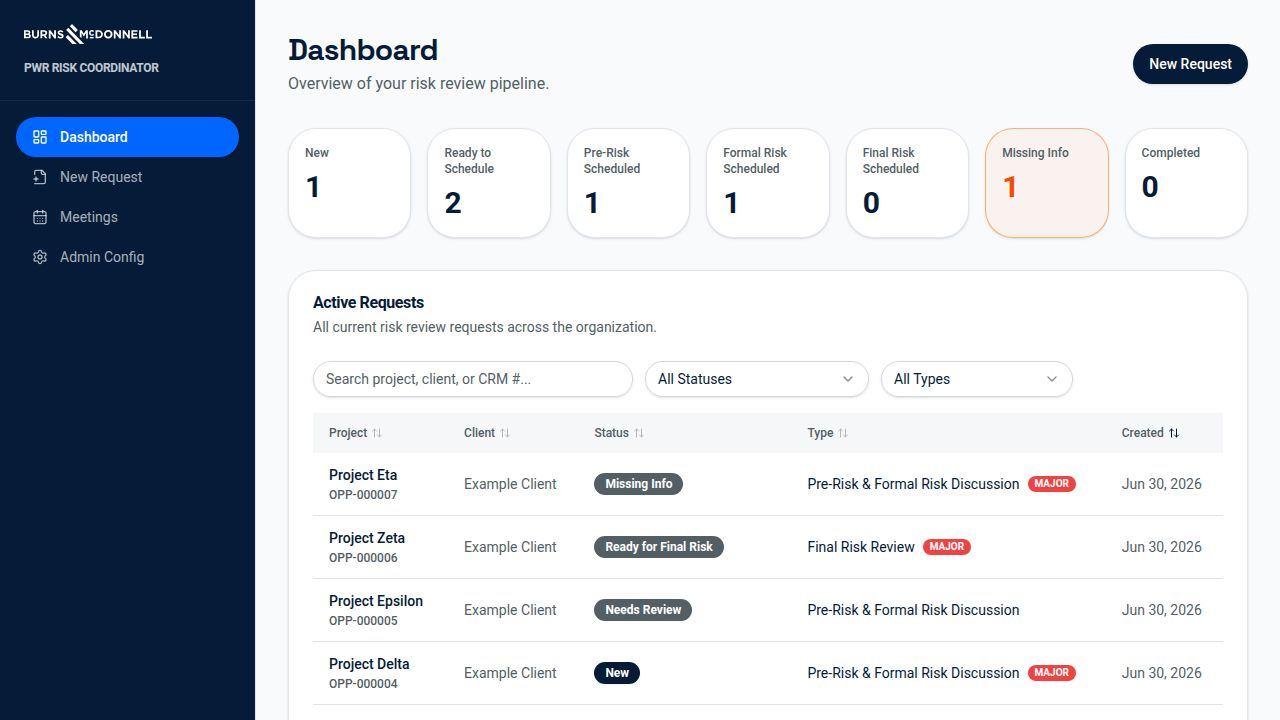
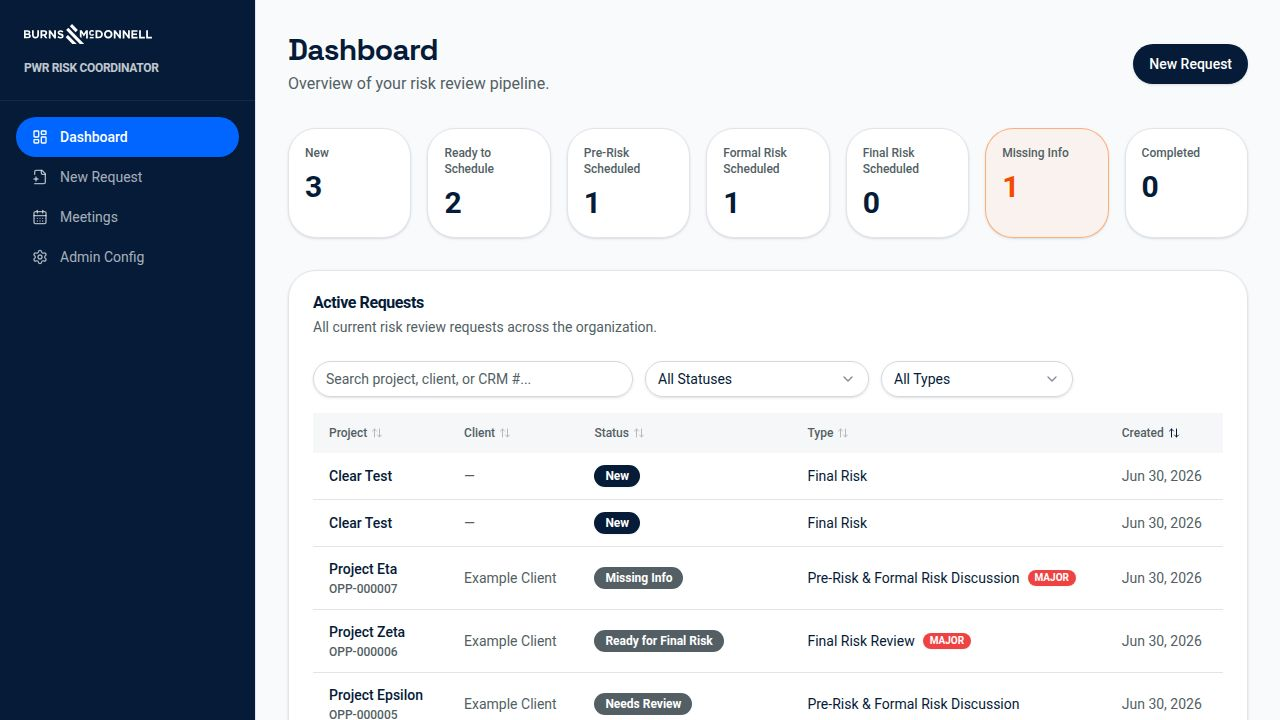
Make core attendee roles required on every request
Per the original MS Form, certain attendee roles must always exist and be
populated (a name), not just be optional additions. Enforced end to end.

Required roles: Business-Line Director, Project Manager, Engineering Manager,
Biz Develop/Capture Manager, Executive-in-Charge, Attorney.

Backend / API spec:
- Added REQUIRED_ATTENDEE_ROLES constant; exposed via /config as
  requiredAttendeeRoles (openapi.yaml updated + client/zod regenerated).
- computeWarnings now flags all required roles missing a name (getRequiredRoles
  returns the full list regardless of EPC-prime status).

Frontend (RequestForm):
- On config load, pre-seeds the required roles as attendee rows (ordered first,
  reusing any existing attendees for those roles) via useFieldArray replace.
- Required rows: role select disabled, row not removable, name labeled required.
- Submit validation blocks save and flags each required role missing a name.

Verified: api-server + frontend typecheck clean, full build passes, /config
returns the 6 required roles, and a request created with only 2 of them
reports the other 4 in the required_attendees_missing warning.

diff --git a/artifacts/risk-coordinator/src/components/RequestForm.tsx b/artifacts/risk-coordinator/src/components/RequestForm.tsx
@@ -1,4 +1,5 @@
 import { useLocation } from "wouter";
+import { useEffect, useRef } from "react";
 import { useGetConfig, useListRiskTriggers, useCreateRequest, useUpdateRequest, getGetRequestQueryKey, getListRequestsQueryKey, getGetDashboardSummaryQueryKey } from "@workspace/api-client-react";
 import { useQueryClient } from "@tanstack/react-query";
 import { useForm, useFieldArray } from "react-hook-form";
@@ -107,10 +108,30 @@ export function RequestForm({ initialData, isEdit }: RequestFormProps) {
     },
   });
 
-  const { fields: attendeeFields, append: appendAttendee, remove: removeAttendee } = useFieldArray({
+  const { fields: attendeeFields, append: appendAttendee, remove: removeAttendee, replace: replaceAttendees } = useFieldArray({
     control: form.control,
     name: "attendees",
   });
+
+  const requiredRoles = config?.requiredAttendeeRoles ?? [];
+  const seeded = useRef(false);
+  useEffect(() => {
+    if (!config || seeded.current) return;
+    seeded.current = true;
+    const current = form.getValues("attendees") || [];
+    const firstByRole = new Map<string, { role: string; name?: string; email?: string }>();
+    for (const a of current) if (!firstByRole.has(a.role)) firstByRole.set(a.role, a);
+    // One canonical row per required role at the top (reusing the first existing
+    // attendee for that role if present), then every other attendee preserved in
+    // order — including any additional same-role duplicates.
+    const requiredRows = requiredRoles.map(
+      (r) => firstByRole.get(r) ?? { role: r, name: "", email: "" },
+    );
+    const usedRequired = new Set(requiredRows);
+    const others = current.filter((a) => !usedRequired.has(a));
+    replaceAttendees([...requiredRows, ...others]);
+    // eslint-disable-next-line react-hooks/exhaustive-deps
+  }, [config]);
 
   if (loadingConfig || loadingTriggers) {
     return <div className="space-y-4"><Skeleton className="h-10 w-full" /><Skeleton className="h-64 w-full" /></div>;
@@ -119,6 +140,29 @@ export function RequestForm({ initialData, isEdit }: RequestFormProps) {
   const roleOptions = config?.attendeeRoles ?? [];
 
   const onSubmit = (values: RequestFormValues) => {
+    const attendeeList = values.attendees || [];
+    const missingRequired: string[] = [];
+    requiredRoles.forEach((role) => {
+      const hasName = attendeeList.some(
+        (a) => a.role === role && a.name && a.name.trim() !== "",
+      );
+      if (!hasName) {
+        const idx = attendeeList.findIndex((a) => a.role === role);
+        if (idx >= 0) {
+          form.setError(`attendees.${idx}.name`, { type: "required", message: "Required" });
+        }
+        missingRequired.push(role);
+      }
+    });
+    if (missingRequired.length > 0) {
+      toast({
+        title: "Required attendees missing",
+        description: `Please provide a name for: ${missingRequired.join(", ")}`,
+        variant: "destructive",
+      });
+      return;
+    }
+
     const clean = <T,>(v: T) => (v === "" ? undefined : v);
     const data = {
       ...values,
@@ -335,16 +379,23 @@ export function RequestForm({ initialData, isEdit }: RequestFormProps) {
               <Plus className="w-4 h-4 mr-1" /> Add Attendee
             </Button>
           </div>
+          {requiredRoles.length > 0 && (
+            <p className="text-sm text-muted-foreground">
+              Roles marked <span className="text-destructive">*</span> are required and must have a name.
+            </p>
+          )}
           {attendeeFields.length === 0 && (
             <p className="text-sm text-muted-foreground">No attendees added yet.</p>
           )}
           <div className="space-y-3">
-            {attendeeFields.map((af, index) => (
+            {attendeeFields.map((af, index) => {
+              const isRequired = index < requiredRoles.length;
+              return (
               <div key={af.id} className="grid grid-cols-1 md:grid-cols-[1fr_1fr_1.5fr_auto] gap-3 items-end rounded-md border p-3">
                 <FormField control={form.control} name={`attendees.${index}.role`} render={({ field }) => (
                   <FormItem>
-                    <FormLabel className="text-xs">Role</FormLabel>
-                    <Select onValueChange={field.onChange} value={field.value || undefined}>
+                    <FormLabel className="text-xs">Role{isRequired && <span className="text-destructive"> *</span>}</FormLabel>
+                    <Select onValueChange={field.onChange} value={field.value || undefined} disabled={isRequired}>
                       <FormControl><SelectTrigger><SelectValue placeholder="Role" /></SelectTrigger></FormControl>
                       <SelectContent>
                         {roleOptions.map((r) => <SelectItem key={r} value={r}>{r}</SelectItem>)}
@@ -353,16 +404,21 @@ export function RequestForm({ initialData, isEdit }: RequestFormProps) {
                   </FormItem>
                 )} />
                 <FormField control={form.control} name={`attendees.${index}.name`} render={({ field }) => (
-                  <FormItem><FormLabel className="text-xs">Name</FormLabel><FormControl><Input {...field} /></FormControl></FormItem>
+                  <FormItem><FormLabel className="text-xs">Name{isRequired && <span className="text-destructive"> *</span>}</FormLabel><FormControl><Input {...field} /></FormControl><FormMessage /></FormItem>
                 )} />
                 <FormField control={form.control} name={`attendees.${index}.email`} render={({ field }) => (
                   <FormItem><FormLabel className="text-xs">Email</FormLabel><FormControl><Input {...field} /></FormControl></FormItem>
                 )} />
-                <Button type="button" variant="ghost" size="icon" onClick={() => removeAttendee(index)} className="text-muted-foreground hover:text-destructive">
-                  <Trash2 className="w-4 h-4" />
-                </Button>
+                {isRequired ? (
+                  <div className="h-10 w-10" aria-hidden="true" />
+                ) : (
+                  <Button type="button" variant="ghost" size="icon" onClick={() => removeAttendee(index)} className="text-muted-foreground hover:text-destructive">
+                    <Trash2 className="w-4 h-4" />
+                  </Button>
+                )}
               </div>
-            ))}
+              );
+            })}
           </div>
         </section>
 

diff --git a/artifacts/api-server/src/lib/constants.ts b/artifacts/api-server/src/lib/constants.ts
@@ -87,6 +87,18 @@ export const STANDARD_ROLES = [
 
 export const ATTENDEE_ROLES = EPC_PRIME_ROLES;
 
+// Roles that must exist on every request and be populated with a name. These
+// are enforced in the request form (pre-seeded, non-removable, name required)
+// and flagged by computeWarnings when missing.
+export const REQUIRED_ATTENDEE_ROLES = [
+  "Business-Line Director",
+  "Project Manager",
+  "Engineering Manager",
+  "Biz Develop/Capture Manager",
+  "Executive-in-Charge",
+  "Attorney",
+] as const;
+
 export const REQUEST_TYPES = [
   "Pre-Risk & Formal Risk Discussion",
   "Final Risk Review",

diff --git a/artifacts/api-server/src/lib/rules.ts b/artifacts/api-server/src/lib/rules.ts
@@ -5,6 +5,7 @@ import type {
   RiskTriggerRow,
   AttendeeRow,
 } from "@workspace/db";
+import { REQUIRED_ATTENDEE_ROLES } from "./constants";
 
 export interface ValidationWarning {
   code: string;
@@ -141,11 +142,8 @@ export function computeWarnings(
   return warnings;
 }
 
-// Required roles whose absence triggers a warning. Kept intentionally small
-// (legal/lead roles). TODO: make configurable via static attendee rules.
-function getRequiredRoles(isEpcPrime: boolean): string[] {
-  if (isEpcPrime) {
-    return ["Business-Line Director", "Project Manager", "Attorney"];
-  }
-  return ["Attorney"];
+// Required roles whose absence triggers a warning. These must exist on every
+// request and be populated with a name, regardless of EPC-prime status.
+function getRequiredRoles(_isEpcPrime: boolean): string[] {
+  return [...REQUIRED_ATTENDEE_ROLES];
 }

diff --git a/artifacts/api-server/src/routes/config/index.ts b/artifacts/api-server/src/routes/config/index.ts
@@ -27,6 +27,7 @@ import {
   ATTENDEE_ROLES,
   EPC_PRIME_ROLES,
   STANDARD_ROLES,
+  REQUIRED_ATTENDEE_ROLES,
   REQUEST_TYPES,
   RISK_IDENTIFICATION_STATUSES,
   DRAFT_STATUSES,
@@ -200,6 +201,7 @@ router.get("/config", (_req: Request, res: Response): void => {
     attendeeRoles: [...ATTENDEE_ROLES],
     epcPrimeRoles: [...EPC_PRIME_ROLES],
     standardRoles: [...STANDARD_ROLES],
+    requiredAttendeeRoles: [...REQUIRED_ATTENDEE_ROLES],
     requestTypes: [...REQUEST_TYPES],
     riskIdentificationStatuses: [...RISK_IDENTIFICATION_STATUSES],
     draftStatuses: [...DRAFT_STATUSES],

diff --git a/.agents/memory/required-attendee-roles.md b/.agents/memory/required-attendee-roles.md
@@ -1,0 +1,24 @@
+---
+name: Required attendee roles
+description: Policy that certain risk-review attendee roles are mandatory
+---
+
+The PWR Risk Review intake treats a fixed set of attendee roles as mandatory:
+each must exist on a request AND have at least one named person. As of this
+writing the set is Business-Line Director, Project Manager, Engineering Manager,
+Biz Develop/Capture Manager, Executive-in-Charge, Attorney.
+
+**Why:** The original MS Form marked these roles required; coordinators cannot
+schedule a review without them, so the app must flag/block their absence.
+
+**Decisions to keep consistent:**
+- Keep ONE source of truth for the list on the backend and have both the
+  validation/warning path and the public config read from it. The form must not
+  hardcode its own copy — it consumes the config list.
+- "Populated" means at least one attendee with that role has a non-empty name
+  (matches the backend's hasNamedAttendee semantics). Validate per-role, not
+  per-row, so extra/duplicate same-role rows don't cause false negatives.
+- The same required set applies regardless of EPC-prime status.
+- When pre-seeding required rows in the form, never drop existing attendees:
+  surface one canonical row per required role, but preserve all other rows
+  (including additional same-role duplicates). Editing must not lose data.

diff --git a/.agents/memory/MEMORY.md b/.agents/memory/MEMORY.md
@@ -1,3 +1,4 @@
 - [Config edit endpoints](risk-coordinator-config-edit.md) — adding admin-editable config requires new openapi PUT paths + orval codegen, not just a route handler.
 - [Drizzle partial update guard](drizzle-partial-update.md) — `.set({})` throws 500 "No values to set"; always strip undefined and 400 on empty body.
 - [Audit events requirement](audit-events.md) — every mutating API path must call recordAudit(); acceptance review fails if audit_events stays unwritten.
+- [Required attendee roles](required-attendee-roles.md) — 6 mandatory roles; single source REQUIRED_ATTENDEE_ROLES drives warnings, /config, and form pre-seeding.